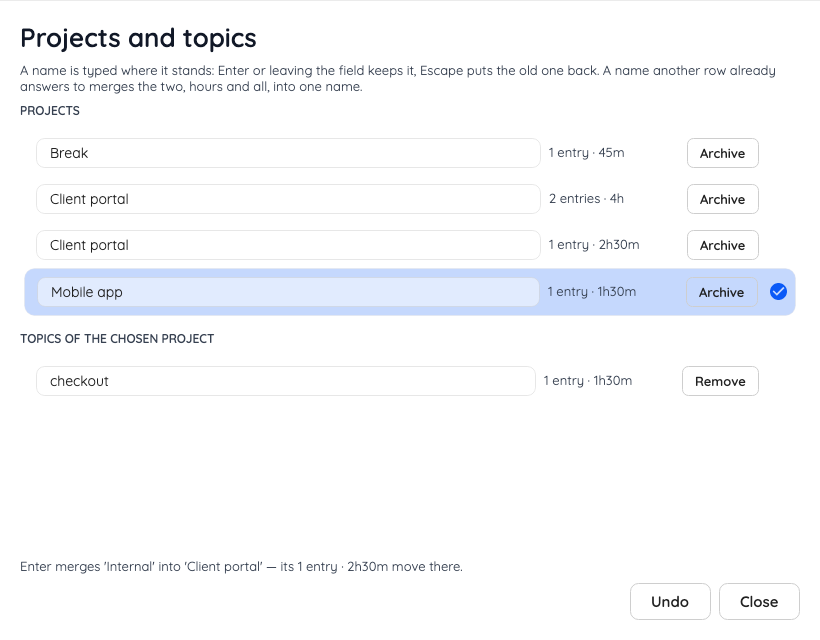
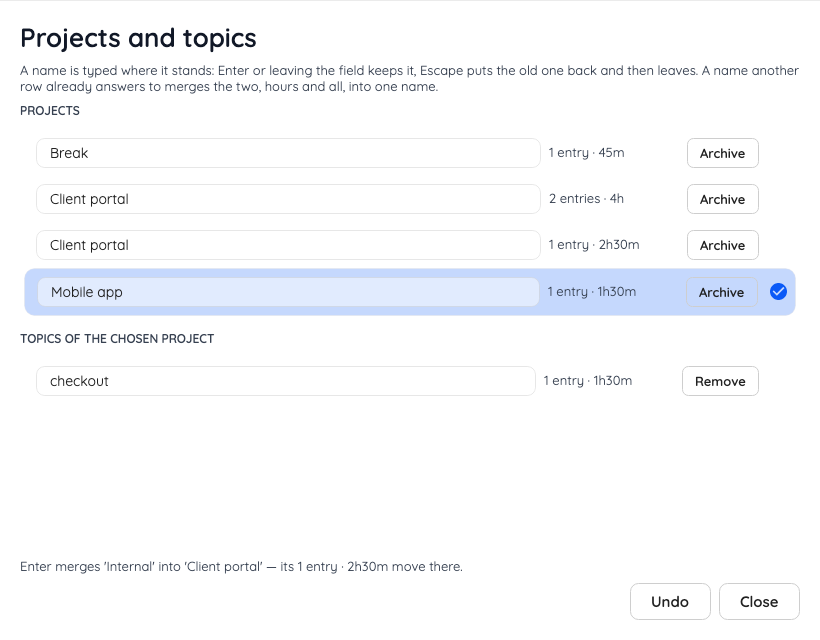
feat(windows): Escape leaves the windows beside the day
Settings, the agent connection and the projects and topics window now close
on Escape, from anywhere in them. In the catalogue a name that differs from
the journal is put back first, so the same key pressed again is what leaves;
the field no longer binds Escape itself, because a binding swallows every
press and the window could never have it back.

Changed region(s): [[0.0305, 0.125, 0.5183, 0.1562], [0.7317, 0.0938, 0.9756, 0.125]]

diff --git a/tests/Worksheet.UiTests/SecondaryWindowTests.cs b/tests/Worksheet.UiTests/SecondaryWindowTests.cs
@@ -1,0 +1,112 @@
+// SPDX-License-Identifier: MPL-2.0
+// This Source Code Form is subject to the terms of the Mozilla Public
+// License, v. 2.0. If a copy of the MPL was not distributed with this
+// file, You can obtain one at https://mozilla.org/MPL/2.0/.
+
+using Avalonia.Controls;
+using Avalonia.Headless;
+using Avalonia.Headless.XUnit;
+using Avalonia.Input;
+using Avalonia.Threading;
+using Avalonia.VisualTree;
+using Worksheet.Core;
+using Worksheet.Desktop.ViewModels;
+using Worksheet.Desktop.Views;
+using Worksheet.Mcp;
+using Worksheet.Storage;
+using Worksheet.TestSupport;
+
+namespace Worksheet.UiTests;
+
+/// <summary>
+/// The windows that stand beside the day — settings, the agent connection, the catalogue — leave on
+/// Escape, except where a field has already taken that key for itself.
+/// </summary>
+public sealed class SecondaryWindowTests
+{
+    private static readonly AppSettings Defaults = new(McpPort: 5317, SnapshotEvery: 500);
+
+    private static void Escape(Window window)
+    {
+        window.KeyPressQwerty(PhysicalKey.Escape, RawInputModifiers.None);
+        Dispatcher.UIThread.RunJobs();
+    }
+
+    private static bool IsOpen(Window window) => window.IsVisible;
+
+    [AvaloniaFact]
+    public void Settings_leaves_on_escape()
+    {
+        using var temp = new TempDirectory("worksheet-secondary");
+        var window = new SettingsWindow
+        {
+            DataContext = new SettingsViewModel(new SettingsResolver(temp.Path, _ => null, Defaults), temp.Path),
+        };
+        window.Show();
+        Dispatcher.UIThread.RunJobs();
+
+        Escape(window);
+
+        Assert.False(IsOpen(window));
+    }
+
+    [AvaloniaFact]
+    public void The_agent_connection_leaves_on_escape()
+    {
+        var window = new ConnectWindow
+        {
+            DataContext = new ConnectViewModel(new McpSettings(5317), "Listening on 127.0.0.1:5317.", isProblem: false),
+        };
+        window.Show();
+        Dispatcher.UIThread.RunJobs();
+
+        Escape(window);
+
+        Assert.False(IsOpen(window));
+    }
+
+    [AvaloniaFact]
+    public void The_catalogue_leaves_on_escape()
+    {
+        using var temp = new TempDirectory("worksheet-secondary");
+        using var local = LocalLedger.Open(temp.Path, SnapshotPolicy.Disabled);
+        var window = new ManageWindow { DataContext = new ManageViewModel(local.Ledger) };
+        window.Show();
+        Dispatcher.UIThread.RunJobs();
+
+        Escape(window);
+
+        Assert.False(IsOpen(window));
+    }
+
+    [AvaloniaFact]
+    public void A_name_being_typed_is_put_back_first_and_the_same_key_then_leaves()
+    {
+        using var temp = new TempDirectory("worksheet-secondary");
+        using var local = LocalLedger.Open(temp.Path, SnapshotPolicy.Disabled);
+
+        new EntryComposer(local.Ledger).Compose(
+            EntryCommandParser.Parse("Website 09:00 1h", new DateOnly(2026, 11, 3)).Command!);
+
+        var window = new ManageWindow { DataContext = new ManageViewModel(local.Ledger) };
+        window.Show();
+        Dispatcher.UIThread.RunJobs();
+
+        var field = window.GetVisualDescendants()
+            .OfType<TextBox>()
+            .Single(box => box.DataContext is CatalogueRow row && row.Name == "Website");
+
+        field.Focus();
+        field.Text = "Client portal";
+        Dispatcher.UIThread.RunJobs();
+
+        Escape(window);
+
+        Assert.True(IsOpen(window));
+        Assert.Equal("Website", field.Text);
+
+        Escape(window);
+
+        Assert.False(IsOpen(window));
+    }
+}

diff --git a/src/Worksheet.Desktop/Views/ManageWindow.axaml.cs b/src/Worksheet.Desktop/Views/ManageWindow.axaml.cs
@@ -4,9 +4,9 @@
 // file, You can obtain one at https://mozilla.org/MPL/2.0/.
 
 using Avalonia.Controls;
+using Avalonia.Input;
 using Avalonia.Interactivity;
 using Avalonia.VisualTree;
-using SukiUI.Controls;
 using Worksheet.Desktop.ViewModels;
 
 namespace Worksheet.Desktop.Views;
@@ -15,9 +15,31 @@ namespace Worksheet.Desktop.Views;
 /// The catalogue, in a window of its own. It closes without touching the day, and every name in it
 /// is a field: nothing here asks a second question after the first answer.
 /// </summary>
-public partial class ManageWindow : SukiWindow
+public partial class ManageWindow : SecondaryWindow
 {
     public ManageWindow() => InitializeComponent();
+
+    /// <summary>
+    /// Escape belongs to a name that differs from the journal before it belongs to the window: the
+    /// first press puts the name back, the next one leaves.
+    /// </summary>
+    protected override void OnKeyDown(KeyEventArgs e)
+    {
+        if (e.Key == Key.Escape && Typed() is { } row)
+        {
+            row.RevertCommand.Execute(null);
+            e.Handled = true;
+            return;
+        }
+
+        base.OnKeyDown(e);
+    }
+
+    /// <summary>The row whose name is being typed and no longer says what the journal says.</summary>
+    private CatalogueRow? Typed() =>
+        FocusManager?.GetFocusedElement() is Control { DataContext: CatalogueRow { IsChanged: true } row }
+            ? row
+            : null;
 
     private void Close_Click(object? sender, RoutedEventArgs e) => Close();
 

diff --git a/src/Worksheet.Desktop/Views/SecondaryWindow.cs b/src/Worksheet.Desktop/Views/SecondaryWindow.cs
@@ -1,0 +1,34 @@
+// SPDX-License-Identifier: MPL-2.0
+// This Source Code Form is subject to the terms of the Mozilla Public
+// License, v. 2.0. If a copy of the MPL was not distributed with this
+// file, You can obtain one at https://mozilla.org/MPL/2.0/.
+
+using Avalonia.Controls;
+using Avalonia.Input;
+using Avalonia.Interactivity;
+using SukiUI.Controls;
+
+namespace Worksheet.Desktop.Views;
+
+/// <summary>
+/// A window that stands beside the day rather than in it — settings, the agent connection, the
+/// catalogue. Escape is the way out, the way it is out of a field: a key a control has already
+/// taken for itself never closes anything, so a name being typed is put back first and the same key
+/// pressed again leaves.
+/// </summary>
+public class SecondaryWindow : SukiWindow
+{
+    protected override void OnKeyDown(KeyEventArgs e)
+    {
+        base.OnKeyDown(e);
+
+        if (e.Handled || e.Key != Key.Escape)
+        {
+            return;
+        }
+
+        Close();
+
+        e.Handled = true;
+    }
+}

diff --git a/src/Worksheet.Desktop/Views/SettingsWindow.axaml.cs b/src/Worksheet.Desktop/Views/SettingsWindow.axaml.cs
@@ -4,7 +4,6 @@
 // file, You can obtain one at https://mozilla.org/MPL/2.0/.
 
 using Avalonia.Interactivity;
-using SukiUI.Controls;
 using Worksheet.Desktop.ViewModels;
 using Worksheet.Storage;
 
@@ -14,7 +13,7 @@ namespace Worksheet.Desktop.Views;
 /// The knobs. The window writes the file and then says so; what the application can apply while it
 /// runs — the MCP port — is asked for by <see cref="Applied"/>.
 /// </summary>
-public partial class SettingsWindow : SukiWindow
+public partial class SettingsWindow : SecondaryWindow
 {
     public SettingsWindow() => InitializeComponent();
 

diff --git a/src/Worksheet.Desktop/Views/ConnectWindow.axaml.cs b/src/Worksheet.Desktop/Views/ConnectWindow.axaml.cs
@@ -9,7 +9,7 @@ using SukiUI.Controls;
 namespace Worksheet.Desktop.Views;
 
 /// <summary>A frame around <see cref="Components.ConnectPanel"/> that closes without touching the day.</summary>
-public partial class ConnectWindow : SukiWindow
+public partial class ConnectWindow : SecondaryWindow
 {
     public ConnectWindow() => InitializeComponent();
 

diff --git a/README.md b/README.md
@@ -138,7 +138,7 @@ the server off.
 
 *Projects and topics…* in the heading's `⋯` (or in the tray menu) lists every project in use with
 what each holds, and the topics of the one you choose. A name is edited where it stands: `Enter` or
-leaving the field keeps the new name, `Esc` puts the old one back.
+leaving the field keeps the new name, `Esc` puts the old one back and then leaves the window.
 
 ![Renaming in place, with the merge the typed name would make stated before it is made](docs/screenshots/projects.png)
 
@@ -162,7 +162,7 @@ at start-up.
 
 The window offers the same four screens without the tray: the *⋯* at the right of the heading opens
 *Settings…*, *Projects and topics…*, *Connect an agent…* and *Open data folder*. Only *Quit* lives in
-the tray alone, because it is not a screen.
+the tray alone, because it is not a screen. Each of those windows closes with `Esc`.
 
 ## Where your data lives
 

diff --git a/docs/behaviour.md b/docs/behaviour.md
@@ -28,7 +28,9 @@ and records decisions; it is not a description of any other program's source.
 5. Runs in the system tray. Closing the window hides it. Only the tray's *Quit*
    ends the process. The tray and the window's heading both open the other four
    screens — settings, projects and topics, the agent connection, the data
-   folder — so a platform without a tray icon loses only *Quit*.
+   folder — so a platform without a tray icon loses only *Quit*. Each of those
+   windows leaves on Escape; in the catalogue, a name that differs from the
+   journal is put back first, and the next Escape leaves.
 6. Follows the system's light or dark appearance, and its accent colour.
 7. Keeps everything in one file in the per-user data directory.
 

diff --git a/docs/development.md b/docs/development.md
@@ -58,7 +58,7 @@ per method, worst first, and exits non-zero if any method is over 10. It merges 
 generated XAML members, and skips the composition roots (`App`, `Program`) — they only wire parts
 together, and every part is measured where it lives.
 
-Current state: 670 methods, no method over CRAP 10, method-average coverage 94.3%. What stays
+Current state: 673 methods, no method over CRAP 10, method-average coverage 94.5%. What stays
 uncovered needs a window server session — the tray, the composition root, the save dialog's file
 picker — or is a guard against a state a test cannot reach on purpose.
 
